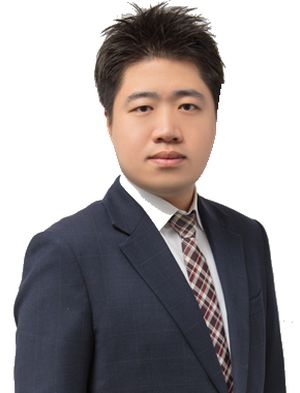
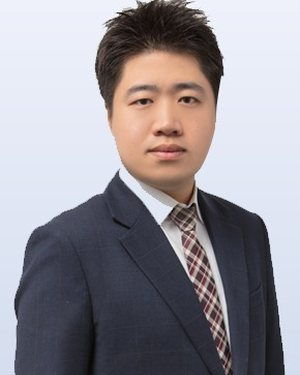
변호사 프로필 사진 배경 통일
원본 6장의 배경이 흰색 3인·회색 그라데이션·크림색·어두운 갈색으로
제각각이라 한 장에 모아 놓으면 인상이 흩어졌다.

- rembg(u2net)로 배경을 제거하고 브랜드 톤 세로 그라데이션(#EFF2FB ->
  #D4DDEE)에 다시 합성
- 덱용은 4:5 300x375로 규격 통일
- 원본은 assets/lawyers/ 그대로 두고 _normalized/ 에 산출
- tools/normalize_lawyer_photos.py 로 재현 가능하게 정리

Claude-Session: https://claude.ai/code/session_01McKVzc7RRv66NSkAtofwT1

diff --git a/tools/normalize_lawyer_photos.py b/tools/normalize_lawyer_photos.py
@@ -1,0 +1,66 @@
+#!/usr/bin/env python3
+# -*- coding: utf-8 -*-
+"""변호사 프로필 사진의 배경을 통일한다.
+
+원본은 촬영 스튜디오가 제각각이라 배경이 흰색·회색·크림·검정으로 섞여 있다.
+배경을 제거하고 브랜드 톤 그라데이션에 다시 올려 6인의 인상을 맞춘다.
+원본(assets/lawyers/*)은 건드리지 않고 _normalized/ 에 산출한다.
+
+  python3 tools/normalize_lawyer_photos.py
+"""
+import glob, os
+from PIL import Image
+from rembg import remove, new_session
+
+ROOT = os.path.dirname(os.path.dirname(os.path.abspath(__file__)))
+SRC = os.path.join(ROOT, 'assets', 'lawyers')
+NORM = os.path.join(SRC, '_normalized')
+DECK = os.path.join(ROOT, 'template', 'design', 'lawyers')
+
+# 파일명 -> 캔버스용 ASCII 이름 (seed-canvas가 한글 파일명을 받지 않는다)
+NAMES = {'박종일': 'park-jongil', '오현진': 'oh-hyunjin', '이지훈': 'lee-jihoon',
+         '임준규': 'lim-junkyu', '장우진': 'jang-woojin', '하혜용': 'ha-hyeyong'}
+TOP, BOTTOM = (0xEF, 0xF2, 0xFB), (0xD4, 0xDD, 0xEE)
+
+
+def gradient(w, h):
+    bg = Image.new('RGB', (w, h))
+    px = bg.load()
+    for y in range(h):
+        t = y / max(1, h - 1)
+        c = tuple(int(TOP[i] + (BOTTOM[i] - TOP[i]) * t) for i in range(3))
+        for x in range(w):
+            px[x, y] = c
+    return bg
+
+
+def main():
+    os.makedirs(NORM, exist_ok=True)
+    os.makedirs(DECK, exist_ok=True)
+    sess = new_session('u2net')
+    for f in sorted(glob.glob(os.path.join(SRC, '*.png'))
+                    + glob.glob(os.path.join(SRC, '*.jpg'))):
+        stem = os.path.splitext(os.path.basename(f))[0]
+        if stem not in NAMES:
+            continue
+        cut = remove(Image.open(f).convert('RGBA'), session=sess)
+        bg = gradient(*cut.size)
+        bg.paste(cut, (0, 0), cut)
+        bg.save(os.path.join(NORM, stem + '.jpg'), quality=92)
+
+        # 덱용: 4:5 로 맞추고 300x375 로 통일
+        im, (W, H) = bg, bg.size
+        if W / H > 0.8:
+            nw = int(H * 0.8)
+            im = im.crop(((W - nw) // 2, 0, (W - nw) // 2 + nw, H))
+        else:
+            nh = int(W * 1.25)
+            top = min(max(0, int(H * 0.02)), max(0, H - nh))
+            im = im.crop((0, top, W, top + nh))
+        im.resize((300, 375), Image.LANCZOS).save(
+            os.path.join(DECK, NAMES[stem] + '.jpg'), quality=84, optimize=True)
+        print('통일', stem, '->', NAMES[stem])
+
+
+if __name__ == '__main__':
+    main()
